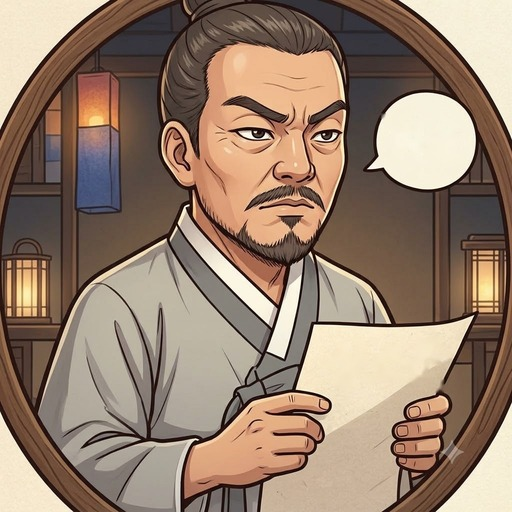
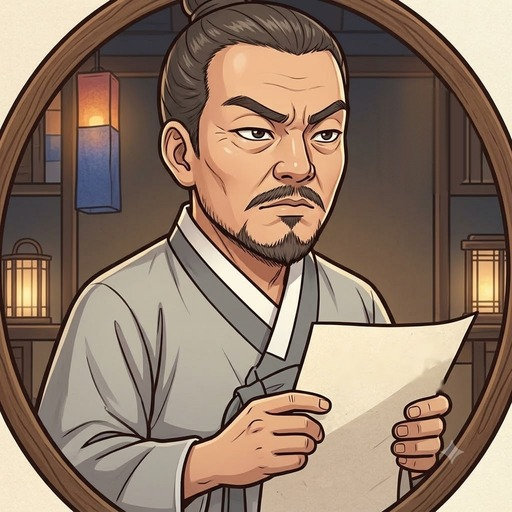
이장님 portrait: remove empty speech bubble
Claude-Session: https://claude.ai/code/session_01Wv2tUsbcCK8op4CaFpSmT5

Changed region(s): [[0.6875, 0.1562, 0.9375, 0.375]]

diff --git a/gallery.html b/gallery.html
@@ -15,6 +15,6 @@ figcaption{padding:7px 9px 9px;display:flex;flex-direction:column;gap:2px;font-s
 .dl{margin-top:6px;align-self:flex-start;font-size:12.5px;font-weight:600;color:var(--acc);text-decoration:none;border:1px solid var(--acc);border-radius:99px;padding:3px 11px}.dl:hover,.zip:hover{filter:brightness(1.1)}
 .zip{font-size:13px;font-weight:600;background:var(--acc);color:#fff;text-decoration:none;border-radius:99px;padding:4px 12px;margin-left:auto;white-space:nowrap}.lead .zip{display:inline-block;margin:6px 0 0}
 .miss .ph{aspect-ratio:1;display:grid;place-items:center;color:var(--sub);border-bottom:2px dashed var(--line);background:repeating-linear-gradient(45deg,transparent 0 10px,#00000008 10px 20px)}
-</style></head><body><main><h1>가면 뒤의 진실 · 그림 갤러리</h1><p class="lead">게임에 들어간 그림 54장과 아직 없는 그림 14장. 그림을 누르면 원본 크기로 열려요. <a class="zip" href="download/all.zip" download>모든 그림 한 번에 다운로드 (1360KB)</a></p>
+</style></head><body><main><h1>가면 뒤의 진실 · 그림 갤러리</h1><p class="lead">게임에 들어간 그림 54장과 아직 없는 그림 14장. 그림을 누르면 원본 크기로 열려요. <a class="zip" href="download/all.zip" download>모든 그림 한 번에 다운로드 (1359KB)</a></p>
 <div class="how"><b>바꾸는 법</b><ol><li>바꾸고 싶은 그림의 다운로드 버튼을 누르거나, 묶음 전체를 zip으로 받아요. (아이폰은 '파일' 앱에 저장돼요. 사진첩에 넣으려면 그림을 길게 눌러 저장하세요.)</li><li>제미나이에서 같은 비율로 새로 그려요.</li><li>프로젝트 스레드에 "<code>img/hoe/h_night.jpg</code> 이걸로 바꿔줘"처럼 파일 이름과 함께 올려주면 같은 자리에 넣고 배포해요.</li></ol></div>
-<section><h2>메인 배경 <small>1장</small></h2><p>게임 전체 배경. 그림이 없는 호외·결말은 이 그림을 세피아로 잘라 대신 씀.</p><div class="grid wide"><figure><a href="img/main.jpg" target="_blank"><img src="img/main.jpg" alt=""></a><figcaption><b>메인 배경</b><code>img/main.jpg</code><span>1024×559px</span><a class="dl" href="img/main.jpg" download="main.jpg">다운로드</a></figcaption></figure></div></section><section><h2>프로필 아바타 <small>16장</small><em class="mine">제가 그린 그림</em><a class="zip" href="download/avatar.zip" download>전체 다운로드 (32KB)</a></h2><p>대기실과 게임 중 자리 칸, 내 프로필. 얼굴을 가린 식구. 남 M1~M8, 여 F1~F8 (자리 순서대로 돌아가며 씀).</p><div class="grid"><figure><a href="img/avatar/F1.svg" target="_blank"><img src="img/avatar/F1.svg" loading="lazy" alt=""></a><figcaption><b>여자</b><code>img/avatar/F1.svg</code><span>100×100px · 1KB</span><a class="dl" href="img/avatar/F1.svg" download="F1.svg">다운로드</a></figcaption></figure><figure><a href="img/avatar/F2.svg" target="_blank"><img src="img/avatar/F2.svg" loading="lazy" alt=""></a><figcaption><b>여자</b><code>img/avatar/F2.svg</code><span>100×100px · 1KB</span><a class="dl" href="img/avatar/F2.svg" download="F2.svg">다운로드</a></figcaption></figure><figure><a href="img/avatar/F3.svg" target="_blank"><img src="img/avatar/F3.svg" loading="lazy" alt=""></a><figcaption><b>여자</b><code>img/avatar/F3.svg</code><span>100×100px · 1KB</span><a class="dl" href="img/avatar/F3.svg" download="F3.svg">다운로드</a></figcaption></figure><figure><a href="img/avatar/F4.svg" target="_blank"><img src="img/avatar/F4.svg" loading="lazy" alt=""></a><figcaption><b>여자</b><code>img/avatar/F4.svg</code><span>100×100px · 1KB</span><a class="dl" href="img/avatar/F4.svg" download="F4.svg">다운로드</a></figcaption></figure><figure><a href="img/avatar/F5.svg" target="_blank"><img src="img/avatar/F5.svg" loading="lazy" alt=""></a><figcaption><b>여자</b><code>img/avatar/F5.svg</code><span>100×100px · 1KB</span><a class="dl" href="img/avatar/F5.svg" download="F5.svg">다운로드</a></figcaption></figure><figure><a href="img/avatar/F6.svg" target="_blank"><img src="img/avatar/F6.svg" loading="lazy" alt=""></a><figcaption><b>여자</b><code>img/avatar/F6.svg</code><span>100×100px · 1KB</span><a class="dl" href="img/avatar/F6.svg" download="F6.svg">다운로드</a></figcaption></figure><figure><a href="img/avatar/F7.svg" target="_blank"><img src="img/avatar/F7.svg" loading="lazy" alt=""></a><figcaption><b>여자</b><code>img/avatar/F7.svg</code><span>100×100px · 1KB</span><a class="dl" href="img/avatar/F7.svg" download="F7.svg">다운로드</a></figcaption></figure><figure><a href="img/avatar/F8.svg" target="_blank"><img src="img/avatar/F8.svg" loading="lazy" alt=""></a><figcaption><b>여자</b><code>img/avatar/F8.svg</code><span>100×100px · 1KB</span><a class="dl" href="img/avatar/F8.svg" download="F8.svg">다운로드</a></figcaption></figure><figure><a href="img/avatar/M1.svg" target="_blank"><img src="img/avatar/M1.svg" loading="lazy" alt=""></a><figcaption><b>남자</b><code>img/avatar/M1.svg</code><span>100×100px · 1KB</span><a class="dl" href="img/avatar/M1.svg" download="M1.svg">다운로드</a></figcaption></figure><figure><a href="img/avatar/M2.svg" target="_blank"><img src="img/avatar/M2.svg" loading="lazy" alt=""></a><figcaption><b>남자</b><code>img/avatar/M2.svg</code><span>100×100px · 1KB</span><a class="dl" href="img/avatar/M2.svg" download="M2.svg">다운로드</a></figcaption></figure><figure><a href="img/avatar/M3.svg" target="_blank"><img src="img/avatar/M3.svg" loading="lazy" alt=""></a><figcaption><b>남자</b><code>img/avatar/M3.svg</code><span>100×100px · 1KB</span><a class="dl" href="img/avatar/M3.svg" download="M3.svg">다운로드</a></figcaption></figure><figure><a href="img/avatar/M4.svg" target="_blank"><img src="img/avatar/M4.svg" loading="lazy" alt=""></a><figcaption><b>남자</b><code>img/avatar/M4.svg</code><span>100×100px · 1KB</span><a class="dl" href="img/avatar/M4.svg" download="M4.svg">다운로드</a></figcaption></figure><figure><a href="img/avatar/M5.svg" target="_blank"><img src="img/avatar/M5.svg" loading="lazy" alt=""></a><figcaption><b>남자</b><code>img/avatar/M5.svg</code><span>100×100px · 1KB</span><a class="dl" href="img/avatar/M5.svg" download="M5.svg">다운로드</a></figcaption></figure><figure><a href="img/avatar/M6.svg" target="_blank"><img src="img/avatar/M6.svg" loading="lazy" alt=""></a><figcaption><b>남자</b><code>img/avatar/M6.svg</code><span>100×100px · 1KB</span><a class="dl" href="img/avatar/M6.svg" download="M6.svg">다운로드</a></figcaption></figure><figure><a href="img/avatar/M7.svg" target="_blank"><img src="img/avatar/M7.svg" loading="lazy" alt=""></a><figcaption><b>남자</b><code>img/avatar/M7.svg</code><span>100×100px · 1KB</span><a class="dl" href="img/avatar/M7.svg" download="M7.svg">다운로드</a></figcaption></figure><figure><a href="img/avatar/M8.svg" target="_blank"><img src="img/avatar/M8.svg" loading="lazy" alt=""></a><figcaption><b>남자</b><code>img/avatar/M8.svg</code><span>100×100px · 1KB</span><a class="dl" href="img/avatar/M8.svg" download="M8.svg">다운로드</a></figcaption></figure></div></section><section><h2>신분 초상 <small>17장</small><a class="zip" href="download/sinbun.zip" download>전체 다운로드 (703KB)</a></h2><p>호패(내 카드), 탈락 후 자리 칸, 정체 공개 액자, 직업 도감, 결말 호패 공개.</p><div class="grid"><figure><a href="img/sinbun/김매는_아낙.jpg" target="_blank"><img src="img/sinbun/김매는_아낙.jpg" loading="lazy" alt=""></a><figcaption><b>신분: 김매는 아낙</b><code>img/sinbun/김매는_아낙.jpg</code><span>300×300px · 40KB</span><a class="dl" href="img/sinbun/김매는_아낙.jpg" download="김매는_아낙.jpg">다운로드</a></figcaption></figure><figure><a href="img/sinbun/낙방한_선비.jpg" target="_blank"><img src="img/sinbun/낙방한_선비.jpg" loading="lazy" alt=""></a><figcaption><b>신분: 낙방한 선비</b><code>img/sinbun/낙방한_선비.jpg</code><span>300×300px · 38KB</span><a class="dl" href="img/sinbun/낙방한_선비.jpg" download="낙방한_선비.jpg">다운로드</a></figcaption></figure><figure><a href="img/sinbun/닭_치는_과부.jpg" target="_blank"><img src="img/sinbun/닭_치는_과부.jpg" loading="lazy" alt=""></a><figcaption><b>신분: 닭 치는 과부</b><code>img/sinbun/닭_치는_과부.jpg</code><span>300×300px · 36KB</span><a class="dl" href="img/sinbun/닭_치는_과부.jpg" download="닭_치는_과부.jpg">다운로드</a></figcaption></figure><figure><a href="img/sinbun/돌쇠.jpg" target="_blank"><img src="img/sinbun/돌쇠.jpg" loading="lazy" alt=""></a><figcaption><b>신분: 돌쇠</b><code>img/sinbun/돌쇠.jpg</code><span>300×300px · 37KB</span><a class="dl" href="img/sinbun/돌쇠.jpg" download="돌쇠.jpg">다운로드</a></figcaption></figure><figure><a href="img/sinbun/떠돌이_소리꾼.jpg" target="_blank"><img src="img/sinbun/떠돌이_소리꾼.jpg" loading="lazy" alt=""></a><figcaption><b>신분: 떠돌이 소리꾼</b><code>img/sinbun/떠돌이_소리꾼.jpg</code><span>300×300px · 35KB</span><a class="dl" href="img/sinbun/떠돌이_소리꾼.jpg" download="떠돌이_소리꾼.jpg">다운로드</a></figcaption></figure><figure><a href="img/sinbun/막내_아씨.jpg" target="_blank"><img src="img/sinbun/막내_아씨.jpg" loading="lazy" alt=""></a><figcaption><b>신분: 막내 아씨</b><code>img/sinbun/막내_아씨.jpg</code><span>300×300px · 36KB</span><a class="dl" href="img/sinbun/막내_아씨.jpg" download="막내_아씨.jpg">다운로드</a></figcaption></figure><figure><a href="img/sinbun/빨래터_아낙.jpg" target="_blank"><img src="img/sinbun/빨래터_아낙.jpg" loading="lazy" alt=""></a><figcaption><b>신분: 빨래터 아낙</b><code>img/sinbun/빨래터_아낙.jpg</code><span>300×300px · 38KB</span><a class="dl" href="img/sinbun/빨래터_아낙.jpg" download="빨래터_아낙.jpg">다운로드</a></figcaption></figure><figure><a href="img/sinbun/사랑채_할배.jpg" target="_blank"><img src="img/sinbun/사랑채_할배.jpg" loading="lazy" alt=""></a><figcaption><b>신분: 사랑채 할배</b><code>img/sinbun/사랑채_할배.jpg</code><span>300×300px · 38KB</span><a class="dl" href="img/sinbun/사랑채_할배.jpg" download="사랑채_할배.jpg">다운로드</a></figcaption></figure><figure><a href="img/sinbun/소작농.jpg" target="_blank"><img src="img/sinbun/소작농.jpg" loading="lazy" alt=""></a><figcaption><b>신분: 소작농</b><code>img/sinbun/소작농.jpg</code><span>300×300px · 40KB</span><a class="dl" href="img/sinbun/소작농.jpg" download="소작농.jpg">다운로드</a></figcaption></figure><figure><a href="img/sinbun/엿장수.jpg" target="_blank"><img src="img/sinbun/엿장수.jpg" loading="lazy" alt=""></a><figcaption><b>신분: 엿장수</b><code>img/sinbun/엿장수.jpg</code><span>300×300px · 43KB</span><a class="dl" href="img/sinbun/엿장수.jpg" download="엿장수.jpg">다운로드</a></figcaption></figure><figure><a href="img/sinbun/이웃집_할매.jpg" target="_blank"><img src="img/sinbun/이웃집_할매.jpg" loading="lazy" alt=""></a><figcaption><b>신분: 이웃집 할매</b><code>img/sinbun/이웃집_할매.jpg</code><span>300×300px · 38KB</span><a class="dl" href="img/sinbun/이웃집_할매.jpg" download="이웃집_할매.jpg">다운로드</a></figcaption></figure><figure><a href="img/sinbun/이장님.jpg" target="_blank"><img src="img/sinbun/이장님.jpg" loading="lazy" alt=""></a><figcaption><b>신분: 이장님</b><code>img/sinbun/이장님.jpg</code><span>512×512px · 83KB</span><a class="dl" href="img/sinbun/이장님.jpg" download="이장님.jpg">다운로드</a></figcaption></figure><figure><a href="img/sinbun/종부_마님.jpg" target="_blank"><img src="img/sinbun/종부_마님.jpg" loading="lazy" alt=""></a><figcaption><b>신분: 종부 마님</b><code>img/sinbun/종부_마님.jpg</code><span>300×300px · 34KB</span><a class="dl" href="img/sinbun/종부_마님.jpg" download="종부_마님.jpg">다운로드</a></figcaption></figure><figure><a href="img/sinbun/주막_주모.jpg" target="_blank"><img src="img/sinbun/주막_주모.jpg" loading="lazy" alt=""></a><figcaption><b>신분: 주막 주모</b><code>img/sinbun/주막_주모.jpg</code><span>300×300px · 39KB</span><a class="dl" href="img/sinbun/주막_주모.jpg" download="주막_주모.jpg">다운로드</a></figcaption></figure><figure><a href="img/sinbun/하산한_비구니.jpg" target="_blank"><img src="img/sinbun/하산한_비구니.jpg" loading="lazy" alt=""></a><figcaption><b>신분: 하산한 비구니</b><code>img/sinbun/하산한_비구니.jpg</code><span>300×300px · 36KB</span><a class="dl" href="img/sinbun/하산한_비구니.jpg" download="하산한_비구니.jpg">다운로드</a></figcaption></figure><figure><a href="img/sinbun/한량.jpg" target="_blank"><img src="img/sinbun/한량.jpg" loading="lazy" alt=""></a><figcaption><b>신분: 한량</b><code>img/sinbun/한량.jpg</code><span>300×300px · 42KB</span><a class="dl" href="img/sinbun/한량.jpg" download="한량.jpg">다운로드</a></figcaption></figure><figure><a href="img/sinbun/훈장님.jpg" target="_blank"><img src="img/sinbun/훈장님.jpg" loading="lazy" alt=""></a><figcaption><b>신분: 훈장님</b><code>img/sinbun/훈장님.jpg</code><span>300×300px · 41KB</span><a class="dl" href="img/sinbun/훈장님.jpg" download="훈장님.jpg">다운로드</a></figcaption></figure></div></section><section><h2>직업 그림 · 결말 장식 <small>11장</small><a class="zip" href="download/gemini.zip" download>전체 다운로드 (296KB)</a></h2><p>제미나이에서 받은 그림을 잘라 쓴 것.</p><div class="grid"><figure><a href="img/gemini/d_books.jpg" target="_blank"><img src="img/gemini/d_books.jpg" loading="lazy" alt=""></a><figcaption><b>결말 화면 장식: 오른쪽 아래 책</b><code>img/gemini/d_books.jpg</code><span>229×400px · 24KB</span><a class="dl" href="img/gemini/d_books.jpg" download="d_books.jpg">다운로드</a></figcaption></figure><figure><a href="img/gemini/d_flor.jpg" target="_blank"><img src="img/gemini/d_flor.jpg" loading="lazy" alt=""></a><figcaption><b>결말 화면 장식: 위 모서리 꽃문양</b><code>img/gemini/d_flor.jpg</code><span>203×215px · 19KB</span><a class="dl" href="img/gemini/d_flor.jpg" download="d_flor.jpg">다운로드</a></figcaption></figure><figure><a href="img/gemini/d_jars.jpg" target="_blank"><img src="img/gemini/d_jars.jpg" loading="lazy" alt=""></a><figcaption><b>결말 화면 장식: 왼쪽 아래 항아리</b><code>img/gemini/d_jars.jpg</code><span>195×290px · 16KB</span><a class="dl" href="img/gemini/d_jars.jpg" download="d_jars.jpg">다운로드</a></figcaption></figure><figure><a href="img/gemini/d_tasL.jpg" target="_blank"><img src="img/gemini/d_tasL.jpg" loading="lazy" alt=""></a><figcaption><b>결말 카드 왼쪽 술</b><code>img/gemini/d_tasL.jpg</code><span>67×200px · 10KB</span><a class="dl" href="img/gemini/d_tasL.jpg" download="d_tasL.jpg">다운로드</a></figcaption></figure><figure><a href="img/gemini/d_tasR.jpg" target="_blank"><img src="img/gemini/d_tasR.jpg" loading="lazy" alt=""></a><figcaption><b>결말 카드 오른쪽 술</b><code>img/gemini/d_tasR.jpg</code><span>63×195px · 9KB</span><a class="dl" href="img/gemini/d_tasR.jpg" download="d_tasR.jpg">다운로드</a></figcaption></figure><figure><a href="img/gemini/e_perfect.jpg" target="_blank"><img src="img/gemini/e_perfect.jpg" loading="lazy" alt=""></a><figcaption><b>결말 m_perfect: 자객단 무혈입성</b><code>img/gemini/e_perfect.jpg</code><span>505×360px · 70KB</span><a class="dl" href="img/gemini/e_perfect.jpg" download="e_perfect.jpg">다운로드</a></figcaption></figure><figure><a href="img/gemini/j_dolsoe.jpg" target="_blank"><img src="img/gemini/j_dolsoe.jpg" loading="lazy" alt=""></a><figcaption><b>직업 카드: 종갓집 식구(남)</b><code>img/gemini/j_dolsoe.jpg</code><span>215×365px · 32KB</span><a class="dl" href="img/gemini/j_dolsoe.jpg" download="j_dolsoe.jpg">다운로드</a></figcaption></figure><figure><a href="img/gemini/j_ijang.jpg" target="_blank"><img src="img/gemini/j_ijang.jpg" loading="lazy" alt=""></a><figcaption><b>직업 카드·정체 공개: 의원 (여자 의원에도 이 그림이 나옴)</b><code>img/gemini/j_ijang.jpg</code><span>170×365px · 26KB</span><a class="dl" href="img/gemini/j_ijang.jpg" download="j_ijang.jpg">다운로드</a></figcaption></figure><figure><a href="img/gemini/j_jumo.jpg" target="_blank"><img src="img/gemini/j_jumo.jpg" loading="lazy" alt=""></a><figcaption><b>직업 카드: 종갓집 식구(여)</b><code>img/gemini/j_jumo.jpg</code><span>185×365px · 31KB</span><a class="dl" href="img/gemini/j_jumo.jpg" download="j_jumo.jpg">다운로드</a></figcaption></figure><figure><a href="img/gemini/j_mafia.jpg" target="_blank"><img src="img/gemini/j_mafia.jpg" loading="lazy" alt=""></a><figcaption><b>직업 카드·정체 공개: 자객</b><code>img/gemini/j_mafia.jpg</code><span>190×365px · 22KB</span><a class="dl" href="img/gemini/j_mafia.jpg" download="j_mafia.jpg">다운로드</a></figcaption></figure><figure><a href="img/gemini/j_podo.jpg" target="_blank"><img src="img/gemini/j_podo.jpg" loading="lazy" alt=""></a><figcaption><b>직업 카드: 암행어사</b><code>img/gemini/j_podo.jpg</code><span>190×365px · 32KB</span><a class="dl" href="img/gemini/j_podo.jpg" download="j_podo.jpg">다운로드</a></figcaption></figure></div></section><section><h2>호외 · 결말 그림 <small>9장</small><a class="zip" href="download/hoe.zip" download>전체 다운로드 (182KB)</a></h2><p>호외 신문 그림과 결말 포토카드. 그림이 있는 호외는 3배 자주 뽑힘.</p><div class="grid"><figure><a href="img/hoe/c_fast.jpg" target="_blank"><img src="img/hoe/c_fast.jpg" loading="lazy" alt=""></a><figcaption><b>결말 c_fast: 번갯불에 콩 볶듯 · 결말 c_perfect 대체</b><code>img/hoe/c_fast.jpg</code><span>155×120px · 16KB</span><a class="dl" href="img/hoe/c_fast.jpg" download="c_fast.jpg">다운로드</a></figcaption></figure><figure><a href="img/hoe/c_win.jpg" target="_blank"><img src="img/hoe/c_win.jpg" loading="lazy" alt=""></a><figcaption><b>결말 c_win: 종갓집 만세</b><code>img/hoe/c_win.jpg</code><span>156×120px · 16KB</span><a class="dl" href="img/hoe/c_win.jpg" download="c_win.jpg">다운로드</a></figcaption></figure><figure><a href="img/hoe/h_dolsoe.jpg" target="_blank"><img src="img/hoe/h_dolsoe.jpg" loading="lazy" alt=""></a><figcaption><b>호외: &quot;나는 그냥 ○○요!&quot; 위장 자객 포박 (자객 포박 대체 그림 겸용)</b><code>img/hoe/h_dolsoe.jpg</code><span>214×181px · 26KB</span><a class="dl" href="img/hoe/h_dolsoe.jpg" download="h_dolsoe.jpg">다운로드</a></figcaption></figure><figure><a href="img/hoe/h_night.jpg" target="_blank"><img src="img/hoe/h_night.jpg" loading="lazy" alt=""></a><figcaption><b>호외: 측간 가다 변을 당하다 (모든 밤 습격 대체 그림 겸용)</b><code>img/hoe/h_night.jpg</code><span>206×209px · 22KB</span><a class="dl" href="img/hoe/h_night.jpg" download="h_night.jpg">다운로드</a></figcaption></figure><figure><a href="img/hoe/h_police.jpg" target="_blank"><img src="img/hoe/h_police.jpg" loading="lazy" alt=""></a><figcaption><b>호외: &quot;내가 어사요!&quot; 암행어사 송치 · 결말 c_amhaeng 대체</b><code>img/hoe/h_police.jpg</code><span>155×120px · 15KB</span><a class="dl" href="img/hoe/h_police.jpg" download="h_police.jpg">다운로드</a></figcaption></figure><figure><a href="img/hoe/h_saved.jpg" target="_blank"><img src="img/hoe/h_saved.jpg" loading="lazy" alt=""></a><figcaption><b>호외: 저승사자도 의원 앞에선… 의원이 살림</b><code>img/hoe/h_saved.jpg</code><span>155×120px · 14KB</span><a class="dl" href="img/hoe/h_saved.jpg" download="h_saved.jpg">다운로드</a></figcaption></figure><figure><a href="img/hoe/h_wrong.jpg" target="_blank"><img src="img/hoe/h_wrong.jpg" loading="lazy" alt=""></a><figcaption><b>호외: 죄라면 수상하게 생긴 죄! 억울한 송치 (억울한 송치 대체 그림 겸용)</b><code>img/hoe/h_wrong.jpg</code><span>205×230px · 27KB</span><a class="dl" href="img/hoe/h_wrong.jpg" download="h_wrong.jpg">다운로드</a></figcaption></figure><figure><a href="img/hoe/m_last.jpg" target="_blank"><img src="img/hoe/m_last.jpg" loading="lazy" alt=""></a><figcaption><b>결말 m_last: 홀로 남은 자객</b><code>img/hoe/m_last.jpg</code><span>154×120px · 13KB</span><a class="dl" href="img/hoe/m_last.jpg" download="m_last.jpg">다운로드</a></figcaption></figure><figure><a href="img/hoe/m_wrong.jpg" target="_blank"><img src="img/hoe/m_wrong.jpg" loading="lazy" alt=""></a><figcaption><b>결말 m_wrong: 멍석만 닳았다 · 결말 m_fool 대체</b><code>img/hoe/m_wrong.jpg</code><span>205×209px · 27KB</span><a class="dl" href="img/hoe/m_wrong.jpg" download="m_wrong.jpg">다운로드</a></figcaption></figure></div></section><section><h2>아직 없는 그림 <small>14장</small></h2><p>지금은 다른 그림으로 대신 채우고 있어요. 이 이름으로 만들어 보내주면 바로 넣어요.</p><div class="grid"><figure class="miss"><div class="ph">비어 있음</div><figcaption><b>결말: 헛똑똑이 이장과 훈장, 고택을 말아먹다!</b><code>img/hoe/m_fool.jpg</code><span>3:2 가로 · 글자 없이</span></figcaption></figure><figure class="miss"><div class="ph">비어 있음</div><figcaption><b>결말: 족집게 종갓집! 자객만 쏙쏙</b><code>img/hoe/c_perfect.jpg</code><span>3:2 가로 · 글자 없이</span></figcaption></figure><figure class="miss"><div class="ph">비어 있음</div><figcaption><b>결말: 남은 건 막걸리 한 사발과 빈 밥상</b><code>img/hoe/c_pyrrhic.jpg</code><span>3:2 가로 · 글자 없이</span></figcaption></figure><figure class="miss"><div class="ph">비어 있음</div><figcaption><b>결말: 암행어사 출두요!</b><code>img/hoe/c_amhaeng.jpg</code><span>3:2 가로 · 글자 없이</span></figcaption></figure><figure class="miss"><div class="ph">비어 있음</div><figcaption><b>호외: 자객 포박 (일반)</b><code>img/hoe/h_caught.jpg</code><span>3:2 가로 · 글자 없이</span></figcaption></figure><figure class="miss"><div class="ph">비어 있음</div><figcaption><b>호외: 동점, 송치 없음</b><code>img/hoe/h_tie.jpg</code><span>3:2 가로 · 글자 없이</span></figcaption></figure><figure class="miss"><div class="ph">비어 있음</div><figcaption><b>호외: 아무 일 없던 밤</b><code>img/hoe/h_none.jpg</code><span>3:2 가로 · 글자 없이</span></figcaption></figure><figure class="miss"><div class="ph">비어 있음</div><figcaption><b>호외: 호위무사가 막아냄</b><code>img/hoe/h_soldier.jpg</code><span>3:2 가로 · 글자 없이</span></figcaption></figure><figure class="miss"><div class="ph">비어 있음</div><figcaption><b>호외: 의원 피습</b><code>img/hoe/h_nightDoctor.jpg</code><span>3:2 가로 · 글자 없이</span></figcaption></figure><figure class="miss"><div class="ph">비어 있음</div><figcaption><b>호외: 암행어사 피습</b><code>img/hoe/h_nightPolice.jpg</code><span>3:2 가로 · 글자 없이</span></figcaption></figure><figure class="miss"><div class="ph">비어 있음</div><figcaption><b>직업 카드: 의원 (여)</b><code>img/gemini/j_ijang_F.jpg</code><span>세로 1:2 · 글자 없이</span></figcaption></figure><figure class="miss"><div class="ph">비어 있음</div><figcaption><b>직업 카드: 암행어사 (여)</b><code>img/gemini/j_podo_F.jpg</code><span>세로 1:2 · 글자 없이</span></figcaption></figure><figure class="miss"><div class="ph">비어 있음</div><figcaption><b>직업 카드: 자객 (여)</b><code>img/gemini/j_mafia_F.jpg</code><span>세로 1:2 · 글자 없이</span></figcaption></figure><figure class="miss"><div class="ph">비어 있음</div><figcaption><b>아이콘 시트 (버튼의 이모지 대신)</b><code>img/icons.png</code><span>정사각 칸 여러 개 · 글자 없이</span></figcaption></figure></div></section></main></body></html>
+<section><h2>메인 배경 <small>1장</small></h2><p>게임 전체 배경. 그림이 없는 호외·결말은 이 그림을 세피아로 잘라 대신 씀.</p><div class="grid wide"><figure><a href="img/main.jpg" target="_blank"><img src="img/main.jpg" alt=""></a><figcaption><b>메인 배경</b><code>img/main.jpg</code><span>1024×559px</span><a class="dl" href="img/main.jpg" download="main.jpg">다운로드</a></figcaption></figure></div></section><section><h2>프로필 아바타 <small>16장</small><em class="mine">제가 그린 그림</em><a class="zip" href="download/avatar.zip" download>전체 다운로드 (32KB)</a></h2><p>대기실과 게임 중 자리 칸, 내 프로필. 얼굴을 가린 식구. 남 M1~M8, 여 F1~F8 (자리 순서대로 돌아가며 씀).</p><div class="grid"><figure><a href="img/avatar/F1.svg" target="_blank"><img src="img/avatar/F1.svg" loading="lazy" alt=""></a><figcaption><b>여자</b><code>img/avatar/F1.svg</code><span>100×100px · 1KB</span><a class="dl" href="img/avatar/F1.svg" download="F1.svg">다운로드</a></figcaption></figure><figure><a href="img/avatar/F2.svg" target="_blank"><img src="img/avatar/F2.svg" loading="lazy" alt=""></a><figcaption><b>여자</b><code>img/avatar/F2.svg</code><span>100×100px · 1KB</span><a class="dl" href="img/avatar/F2.svg" download="F2.svg">다운로드</a></figcaption></figure><figure><a href="img/avatar/F3.svg" target="_blank"><img src="img/avatar/F3.svg" loading="lazy" alt=""></a><figcaption><b>여자</b><code>img/avatar/F3.svg</code><span>100×100px · 1KB</span><a class="dl" href="img/avatar/F3.svg" download="F3.svg">다운로드</a></figcaption></figure><figure><a href="img/avatar/F4.svg" target="_blank"><img src="img/avatar/F4.svg" loading="lazy" alt=""></a><figcaption><b>여자</b><code>img/avatar/F4.svg</code><span>100×100px · 1KB</span><a class="dl" href="img/avatar/F4.svg" download="F4.svg">다운로드</a></figcaption></figure><figure><a href="img/avatar/F5.svg" target="_blank"><img src="img/avatar/F5.svg" loading="lazy" alt=""></a><figcaption><b>여자</b><code>img/avatar/F5.svg</code><span>100×100px · 1KB</span><a class="dl" href="img/avatar/F5.svg" download="F5.svg">다운로드</a></figcaption></figure><figure><a href="img/avatar/F6.svg" target="_blank"><img src="img/avatar/F6.svg" loading="lazy" alt=""></a><figcaption><b>여자</b><code>img/avatar/F6.svg</code><span>100×100px · 1KB</span><a class="dl" href="img/avatar/F6.svg" download="F6.svg">다운로드</a></figcaption></figure><figure><a href="img/avatar/F7.svg" target="_blank"><img src="img/avatar/F7.svg" loading="lazy" alt=""></a><figcaption><b>여자</b><code>img/avatar/F7.svg</code><span>100×100px · 1KB</span><a class="dl" href="img/avatar/F7.svg" download="F7.svg">다운로드</a></figcaption></figure><figure><a href="img/avatar/F8.svg" target="_blank"><img src="img/avatar/F8.svg" loading="lazy" alt=""></a><figcaption><b>여자</b><code>img/avatar/F8.svg</code><span>100×100px · 1KB</span><a class="dl" href="img/avatar/F8.svg" download="F8.svg">다운로드</a></figcaption></figure><figure><a href="img/avatar/M1.svg" target="_blank"><img src="img/avatar/M1.svg" loading="lazy" alt=""></a><figcaption><b>남자</b><code>img/avatar/M1.svg</code><span>100×100px · 1KB</span><a class="dl" href="img/avatar/M1.svg" download="M1.svg">다운로드</a></figcaption></figure><figure><a href="img/avatar/M2.svg" target="_blank"><img src="img/avatar/M2.svg" loading="lazy" alt=""></a><figcaption><b>남자</b><code>img/avatar/M2.svg</code><span>100×100px · 1KB</span><a class="dl" href="img/avatar/M2.svg" download="M2.svg">다운로드</a></figcaption></figure><figure><a href="img/avatar/M3.svg" target="_blank"><img src="img/avatar/M3.svg" loading="lazy" alt=""></a><figcaption><b>남자</b><code>img/avatar/M3.svg</code><span>100×100px · 1KB</span><a class="dl" href="img/avatar/M3.svg" download="M3.svg">다운로드</a></figcaption></figure><figure><a href="img/avatar/M4.svg" target="_blank"><img src="img/avatar/M4.svg" loading="lazy" alt=""></a><figcaption><b>남자</b><code>img/avatar/M4.svg</code><span>100×100px · 1KB</span><a class="dl" href="img/avatar/M4.svg" download="M4.svg">다운로드</a></figcaption></figure><figure><a href="img/avatar/M5.svg" target="_blank"><img src="img/avatar/M5.svg" loading="lazy" alt=""></a><figcaption><b>남자</b><code>img/avatar/M5.svg</code><span>100×100px · 1KB</span><a class="dl" href="img/avatar/M5.svg" download="M5.svg">다운로드</a></figcaption></figure><figure><a href="img/avatar/M6.svg" target="_blank"><img src="img/avatar/M6.svg" loading="lazy" alt=""></a><figcaption><b>남자</b><code>img/avatar/M6.svg</code><span>100×100px · 1KB</span><a class="dl" href="img/avatar/M6.svg" download="M6.svg">다운로드</a></figcaption></figure><figure><a href="img/avatar/M7.svg" target="_blank"><img src="img/avatar/M7.svg" loading="lazy" alt=""></a><figcaption><b>남자</b><code>img/avatar/M7.svg</code><span>100×100px · 1KB</span><a class="dl" href="img/avatar/M7.svg" download="M7.svg">다운로드</a></figcaption></figure><figure><a href="img/avatar/M8.svg" target="_blank"><img src="img/avatar/M8.svg" loading="lazy" alt=""></a><figcaption><b>남자</b><code>img/avatar/M8.svg</code><span>100×100px · 1KB</span><a class="dl" href="img/avatar/M8.svg" download="M8.svg">다운로드</a></figcaption></figure></div></section><section><h2>신분 초상 <small>17장</small><a class="zip" href="download/sinbun.zip" download>전체 다운로드 (702KB)</a></h2><p>호패(내 카드), 탈락 후 자리 칸, 정체 공개 액자, 직업 도감, 결말 호패 공개.</p><div class="grid"><figure><a href="img/sinbun/김매는_아낙.jpg" target="_blank"><img src="img/sinbun/김매는_아낙.jpg" loading="lazy" alt=""></a><figcaption><b>신분: 김매는 아낙</b><code>img/sinbun/김매는_아낙.jpg</code><span>300×300px · 40KB</span><a class="dl" href="img/sinbun/김매는_아낙.jpg" download="김매는_아낙.jpg">다운로드</a></figcaption></figure><figure><a href="img/sinbun/낙방한_선비.jpg" target="_blank"><img src="img/sinbun/낙방한_선비.jpg" loading="lazy" alt=""></a><figcaption><b>신분: 낙방한 선비</b><code>img/sinbun/낙방한_선비.jpg</code><span>300×300px · 38KB</span><a class="dl" href="img/sinbun/낙방한_선비.jpg" download="낙방한_선비.jpg">다운로드</a></figcaption></figure><figure><a href="img/sinbun/닭_치는_과부.jpg" target="_blank"><img src="img/sinbun/닭_치는_과부.jpg" loading="lazy" alt=""></a><figcaption><b>신분: 닭 치는 과부</b><code>img/sinbun/닭_치는_과부.jpg</code><span>300×300px · 36KB</span><a class="dl" href="img/sinbun/닭_치는_과부.jpg" download="닭_치는_과부.jpg">다운로드</a></figcaption></figure><figure><a href="img/sinbun/돌쇠.jpg" target="_blank"><img src="img/sinbun/돌쇠.jpg" loading="lazy" alt=""></a><figcaption><b>신분: 돌쇠</b><code>img/sinbun/돌쇠.jpg</code><span>300×300px · 37KB</span><a class="dl" href="img/sinbun/돌쇠.jpg" download="돌쇠.jpg">다운로드</a></figcaption></figure><figure><a href="img/sinbun/떠돌이_소리꾼.jpg" target="_blank"><img src="img/sinbun/떠돌이_소리꾼.jpg" loading="lazy" alt=""></a><figcaption><b>신분: 떠돌이 소리꾼</b><code>img/sinbun/떠돌이_소리꾼.jpg</code><span>300×300px · 35KB</span><a class="dl" href="img/sinbun/떠돌이_소리꾼.jpg" download="떠돌이_소리꾼.jpg">다운로드</a></figcaption></figure><figure><a href="img/sinbun/막내_아씨.jpg" target="_blank"><img src="img/sinbun/막내_아씨.jpg" loading="lazy" alt=""></a><figcaption><b>신분: 막내 아씨</b><code>img/sinbun/막내_아씨.jpg</code><span>300×300px · 36KB</span><a class="dl" href="img/sinbun/막내_아씨.jpg" download="막내_아씨.jpg">다운로드</a></figcaption></figure><figure><a href="img/sinbun/빨래터_아낙.jpg" target="_blank"><img src="img/sinbun/빨래터_아낙.jpg" loading="lazy" alt=""></a><figcaption><b>신분: 빨래터 아낙</b><code>img/sinbun/빨래터_아낙.jpg</code><span>300×300px · 38KB</span><a class="dl" href="img/sinbun/빨래터_아낙.jpg" download="빨래터_아낙.jpg">다운로드</a></figcaption></figure><figure><a href="img/sinbun/사랑채_할배.jpg" target="_blank"><img src="img/sinbun/사랑채_할배.jpg" loading="lazy" alt=""></a><figcaption><b>신분: 사랑채 할배</b><code>img/sinbun/사랑채_할배.jpg</code><span>300×300px · 38KB</span><a class="dl" href="img/sinbun/사랑채_할배.jpg" download="사랑채_할배.jpg">다운로드</a></figcaption></figure><figure><a href="img/sinbun/소작농.jpg" target="_blank"><img src="img/sinbun/소작농.jpg" loading="lazy" alt=""></a><figcaption><b>신분: 소작농</b><code>img/sinbun/소작농.jpg</code><span>300×300px · 40KB</span><a class="dl" href="img/sinbun/소작농.jpg" download="소작농.jpg">다운로드</a></figcaption></figure><figure><a href="img/sinbun/엿장수.jpg" target="_blank"><img src="img/sinbun/엿장수.jpg" loading="lazy" alt=""></a><figcaption><b>신분: 엿장수</b><code>img/sinbun/엿장수.jpg</code><span>300×300px · 43KB</span><a class="dl" href="img/sinbun/엿장수.jpg" download="엿장수.jpg">다운로드</a></figcaption></figure><figure><a href="img/sinbun/이웃집_할매.jpg" target="_blank"><img src="img/sinbun/이웃집_할매.jpg" loading="lazy" alt=""></a><figcaption><b>신분: 이웃집 할매</b><code>img/sinbun/이웃집_할매.jpg</code><span>300×300px · 38KB</span><a class="dl" href="img/sinbun/이웃집_할매.jpg" download="이웃집_할매.jpg">다운로드</a></figcaption></figure><figure><a href="img/sinbun/이장님.jpg" target="_blank"><img src="img/sinbun/이장님.jpg" loading="lazy" alt=""></a><figcaption><b>신분: 이장님</b><code>img/sinbun/이장님.jpg</code><span>512×512px · 82KB</span><a class="dl" href="img/sinbun/이장님.jpg" download="이장님.jpg">다운로드</a></figcaption></figure><figure><a href="img/sinbun/종부_마님.jpg" target="_blank"><img src="img/sinbun/종부_마님.jpg" loading="lazy" alt=""></a><figcaption><b>신분: 종부 마님</b><code>img/sinbun/종부_마님.jpg</code><span>300×300px · 34KB</span><a class="dl" href="img/sinbun/종부_마님.jpg" download="종부_마님.jpg">다운로드</a></figcaption></figure><figure><a href="img/sinbun/주막_주모.jpg" target="_blank"><img src="img/sinbun/주막_주모.jpg" loading="lazy" alt=""></a><figcaption><b>신분: 주막 주모</b><code>img/sinbun/주막_주모.jpg</code><span>300×300px · 39KB</span><a class="dl" href="img/sinbun/주막_주모.jpg" download="주막_주모.jpg">다운로드</a></figcaption></figure><figure><a href="img/sinbun/하산한_비구니.jpg" target="_blank"><img src="img/sinbun/하산한_비구니.jpg" loading="lazy" alt=""></a><figcaption><b>신분: 하산한 비구니</b><code>img/sinbun/하산한_비구니.jpg</code><span>300×300px · 36KB</span><a class="dl" href="img/sinbun/하산한_비구니.jpg" download="하산한_비구니.jpg">다운로드</a></figcaption></figure><figure><a href="img/sinbun/한량.jpg" target="_blank"><img src="img/sinbun/한량.jpg" loading="lazy" alt=""></a><figcaption><b>신분: 한량</b><code>img/sinbun/한량.jpg</code><span>300×300px · 42KB</span><a class="dl" href="img/sinbun/한량.jpg" download="한량.jpg">다운로드</a></figcaption></figure><figure><a href="img/sinbun/훈장님.jpg" target="_blank"><img src="img/sinbun/훈장님.jpg" loading="lazy" alt=""></a><figcaption><b>신분: 훈장님</b><code>img/sinbun/훈장님.jpg</code><span>300×300px · 41KB</span><a class="dl" href="img/sinbun/훈장님.jpg" download="훈장님.jpg">다운로드</a></figcaption></figure></div></section><section><h2>직업 그림 · 결말 장식 <small>11장</small><a class="zip" href="download/gemini.zip" download>전체 다운로드 (296KB)</a></h2><p>제미나이에서 받은 그림을 잘라 쓴 것.</p><div class="grid"><figure><a href="img/gemini/d_books.jpg" target="_blank"><img src="img/gemini/d_books.jpg" loading="lazy" alt=""></a><figcaption><b>결말 화면 장식: 오른쪽 아래 책</b><code>img/gemini/d_books.jpg</code><span>229×400px · 24KB</span><a class="dl" href="img/gemini/d_books.jpg" download="d_books.jpg">다운로드</a></figcaption></figure><figure><a href="img/gemini/d_flor.jpg" target="_blank"><img src="img/gemini/d_flor.jpg" loading="lazy" alt=""></a><figcaption><b>결말 화면 장식: 위 모서리 꽃문양</b><code>img/gemini/d_flor.jpg</code><span>203×215px · 19KB</span><a class="dl" href="img/gemini/d_flor.jpg" download="d_flor.jpg">다운로드</a></figcaption></figure><figure><a href="img/gemini/d_jars.jpg" target="_blank"><img src="img/gemini/d_jars.jpg" loading="lazy" alt=""></a><figcaption><b>결말 화면 장식: 왼쪽 아래 항아리</b><code>img/gemini/d_jars.jpg</code><span>195×290px · 16KB</span><a class="dl" href="img/gemini/d_jars.jpg" download="d_jars.jpg">다운로드</a></figcaption></figure><figure><a href="img/gemini/d_tasL.jpg" target="_blank"><img src="img/gemini/d_tasL.jpg" loading="lazy" alt=""></a><figcaption><b>결말 카드 왼쪽 술</b><code>img/gemini/d_tasL.jpg</code><span>67×200px · 10KB</span><a class="dl" href="img/gemini/d_tasL.jpg" download="d_tasL.jpg">다운로드</a></figcaption></figure><figure><a href="img/gemini/d_tasR.jpg" target="_blank"><img src="img/gemini/d_tasR.jpg" loading="lazy" alt=""></a><figcaption><b>결말 카드 오른쪽 술</b><code>img/gemini/d_tasR.jpg</code><span>63×195px · 9KB</span><a class="dl" href="img/gemini/d_tasR.jpg" download="d_tasR.jpg">다운로드</a></figcaption></figure><figure><a href="img/gemini/e_perfect.jpg" target="_blank"><img src="img/gemini/e_perfect.jpg" loading="lazy" alt=""></a><figcaption><b>결말 m_perfect: 자객단 무혈입성</b><code>img/gemini/e_perfect.jpg</code><span>505×360px · 70KB</span><a class="dl" href="img/gemini/e_perfect.jpg" download="e_perfect.jpg">다운로드</a></figcaption></figure><figure><a href="img/gemini/j_dolsoe.jpg" target="_blank"><img src="img/gemini/j_dolsoe.jpg" loading="lazy" alt=""></a><figcaption><b>직업 카드: 종갓집 식구(남)</b><code>img/gemini/j_dolsoe.jpg</code><span>215×365px · 32KB</span><a class="dl" href="img/gemini/j_dolsoe.jpg" download="j_dolsoe.jpg">다운로드</a></figcaption></figure><figure><a href="img/gemini/j_ijang.jpg" target="_blank"><img src="img/gemini/j_ijang.jpg" loading="lazy" alt=""></a><figcaption><b>직업 카드·정체 공개: 의원 (여자 의원에도 이 그림이 나옴)</b><code>img/gemini/j_ijang.jpg</code><span>170×365px · 26KB</span><a class="dl" href="img/gemini/j_ijang.jpg" download="j_ijang.jpg">다운로드</a></figcaption></figure><figure><a href="img/gemini/j_jumo.jpg" target="_blank"><img src="img/gemini/j_jumo.jpg" loading="lazy" alt=""></a><figcaption><b>직업 카드: 종갓집 식구(여)</b><code>img/gemini/j_jumo.jpg</code><span>185×365px · 31KB</span><a class="dl" href="img/gemini/j_jumo.jpg" download="j_jumo.jpg">다운로드</a></figcaption></figure><figure><a href="img/gemini/j_mafia.jpg" target="_blank"><img src="img/gemini/j_mafia.jpg" loading="lazy" alt=""></a><figcaption><b>직업 카드·정체 공개: 자객</b><code>img/gemini/j_mafia.jpg</code><span>190×365px · 22KB</span><a class="dl" href="img/gemini/j_mafia.jpg" download="j_mafia.jpg">다운로드</a></figcaption></figure><figure><a href="img/gemini/j_podo.jpg" target="_blank"><img src="img/gemini/j_podo.jpg" loading="lazy" alt=""></a><figcaption><b>직업 카드: 암행어사</b><code>img/gemini/j_podo.jpg</code><span>190×365px · 32KB</span><a class="dl" href="img/gemini/j_podo.jpg" download="j_podo.jpg">다운로드</a></figcaption></figure></div></section><section><h2>호외 · 결말 그림 <small>9장</small><a class="zip" href="download/hoe.zip" download>전체 다운로드 (182KB)</a></h2><p>호외 신문 그림과 결말 포토카드. 그림이 있는 호외는 3배 자주 뽑힘.</p><div class="grid"><figure><a href="img/hoe/c_fast.jpg" target="_blank"><img src="img/hoe/c_fast.jpg" loading="lazy" alt=""></a><figcaption><b>결말 c_fast: 번갯불에 콩 볶듯 · 결말 c_perfect 대체</b><code>img/hoe/c_fast.jpg</code><span>155×120px · 16KB</span><a class="dl" href="img/hoe/c_fast.jpg" download="c_fast.jpg">다운로드</a></figcaption></figure><figure><a href="img/hoe/c_win.jpg" target="_blank"><img src="img/hoe/c_win.jpg" loading="lazy" alt=""></a><figcaption><b>결말 c_win: 종갓집 만세</b><code>img/hoe/c_win.jpg</code><span>156×120px · 16KB</span><a class="dl" href="img/hoe/c_win.jpg" download="c_win.jpg">다운로드</a></figcaption></figure><figure><a href="img/hoe/h_dolsoe.jpg" target="_blank"><img src="img/hoe/h_dolsoe.jpg" loading="lazy" alt=""></a><figcaption><b>호외: &quot;나는 그냥 ○○요!&quot; 위장 자객 포박 (자객 포박 대체 그림 겸용)</b><code>img/hoe/h_dolsoe.jpg</code><span>214×181px · 26KB</span><a class="dl" href="img/hoe/h_dolsoe.jpg" download="h_dolsoe.jpg">다운로드</a></figcaption></figure><figure><a href="img/hoe/h_night.jpg" target="_blank"><img src="img/hoe/h_night.jpg" loading="lazy" alt=""></a><figcaption><b>호외: 측간 가다 변을 당하다 (모든 밤 습격 대체 그림 겸용)</b><code>img/hoe/h_night.jpg</code><span>206×209px · 22KB</span><a class="dl" href="img/hoe/h_night.jpg" download="h_night.jpg">다운로드</a></figcaption></figure><figure><a href="img/hoe/h_police.jpg" target="_blank"><img src="img/hoe/h_police.jpg" loading="lazy" alt=""></a><figcaption><b>호외: &quot;내가 어사요!&quot; 암행어사 송치 · 결말 c_amhaeng 대체</b><code>img/hoe/h_police.jpg</code><span>155×120px · 15KB</span><a class="dl" href="img/hoe/h_police.jpg" download="h_police.jpg">다운로드</a></figcaption></figure><figure><a href="img/hoe/h_saved.jpg" target="_blank"><img src="img/hoe/h_saved.jpg" loading="lazy" alt=""></a><figcaption><b>호외: 저승사자도 의원 앞에선… 의원이 살림</b><code>img/hoe/h_saved.jpg</code><span>155×120px · 14KB</span><a class="dl" href="img/hoe/h_saved.jpg" download="h_saved.jpg">다운로드</a></figcaption></figure><figure><a href="img/hoe/h_wrong.jpg" target="_blank"><img src="img/hoe/h_wrong.jpg" loading="lazy" alt=""></a><figcaption><b>호외: 죄라면 수상하게 생긴 죄! 억울한 송치 (억울한 송치 대체 그림 겸용)</b><code>img/hoe/h_wrong.jpg</code><span>205×230px · 27KB</span><a class="dl" href="img/hoe/h_wrong.jpg" download="h_wrong.jpg">다운로드</a></figcaption></figure><figure><a href="img/hoe/m_last.jpg" target="_blank"><img src="img/hoe/m_last.jpg" loading="lazy" alt=""></a><figcaption><b>결말 m_last: 홀로 남은 자객</b><code>img/hoe/m_last.jpg</code><span>154×120px · 13KB</span><a class="dl" href="img/hoe/m_last.jpg" download="m_last.jpg">다운로드</a></figcaption></figure><figure><a href="img/hoe/m_wrong.jpg" target="_blank"><img src="img/hoe/m_wrong.jpg" loading="lazy" alt=""></a><figcaption><b>결말 m_wrong: 멍석만 닳았다 · 결말 m_fool 대체</b><code>img/hoe/m_wrong.jpg</code><span>205×209px · 27KB</span><a class="dl" href="img/hoe/m_wrong.jpg" download="m_wrong.jpg">다운로드</a></figcaption></figure></div></section><section><h2>아직 없는 그림 <small>14장</small></h2><p>지금은 다른 그림으로 대신 채우고 있어요. 이 이름으로 만들어 보내주면 바로 넣어요.</p><div class="grid"><figure class="miss"><div class="ph">비어 있음</div><figcaption><b>결말: 헛똑똑이 이장과 훈장, 고택을 말아먹다!</b><code>img/hoe/m_fool.jpg</code><span>3:2 가로 · 글자 없이</span></figcaption></figure><figure class="miss"><div class="ph">비어 있음</div><figcaption><b>결말: 족집게 종갓집! 자객만 쏙쏙</b><code>img/hoe/c_perfect.jpg</code><span>3:2 가로 · 글자 없이</span></figcaption></figure><figure class="miss"><div class="ph">비어 있음</div><figcaption><b>결말: 남은 건 막걸리 한 사발과 빈 밥상</b><code>img/hoe/c_pyrrhic.jpg</code><span>3:2 가로 · 글자 없이</span></figcaption></figure><figure class="miss"><div class="ph">비어 있음</div><figcaption><b>결말: 암행어사 출두요!</b><code>img/hoe/c_amhaeng.jpg</code><span>3:2 가로 · 글자 없이</span></figcaption></figure><figure class="miss"><div class="ph">비어 있음</div><figcaption><b>호외: 자객 포박 (일반)</b><code>img/hoe/h_caught.jpg</code><span>3:2 가로 · 글자 없이</span></figcaption></figure><figure class="miss"><div class="ph">비어 있음</div><figcaption><b>호외: 동점, 송치 없음</b><code>img/hoe/h_tie.jpg</code><span>3:2 가로 · 글자 없이</span></figcaption></figure><figure class="miss"><div class="ph">비어 있음</div><figcaption><b>호외: 아무 일 없던 밤</b><code>img/hoe/h_none.jpg</code><span>3:2 가로 · 글자 없이</span></figcaption></figure><figure class="miss"><div class="ph">비어 있음</div><figcaption><b>호외: 호위무사가 막아냄</b><code>img/hoe/h_soldier.jpg</code><span>3:2 가로 · 글자 없이</span></figcaption></figure><figure class="miss"><div class="ph">비어 있음</div><figcaption><b>호외: 의원 피습</b><code>img/hoe/h_nightDoctor.jpg</code><span>3:2 가로 · 글자 없이</span></figcaption></figure><figure class="miss"><div class="ph">비어 있음</div><figcaption><b>호외: 암행어사 피습</b><code>img/hoe/h_nightPolice.jpg</code><span>3:2 가로 · 글자 없이</span></figcaption></figure><figure class="miss"><div class="ph">비어 있음</div><figcaption><b>직업 카드: 의원 (여)</b><code>img/gemini/j_ijang_F.jpg</code><span>세로 1:2 · 글자 없이</span></figcaption></figure><figure class="miss"><div class="ph">비어 있음</div><figcaption><b>직업 카드: 암행어사 (여)</b><code>img/gemini/j_podo_F.jpg</code><span>세로 1:2 · 글자 없이</span></figcaption></figure><figure class="miss"><div class="ph">비어 있음</div><figcaption><b>직업 카드: 자객 (여)</b><code>img/gemini/j_mafia_F.jpg</code><span>세로 1:2 · 글자 없이</span></figcaption></figure><figure class="miss"><div class="ph">비어 있음</div><figcaption><b>아이콘 시트 (버튼의 이모지 대신)</b><code>img/icons.png</code><span>정사각 칸 여러 개 · 글자 없이</span></figcaption></figure></div></section></main></body></html>
